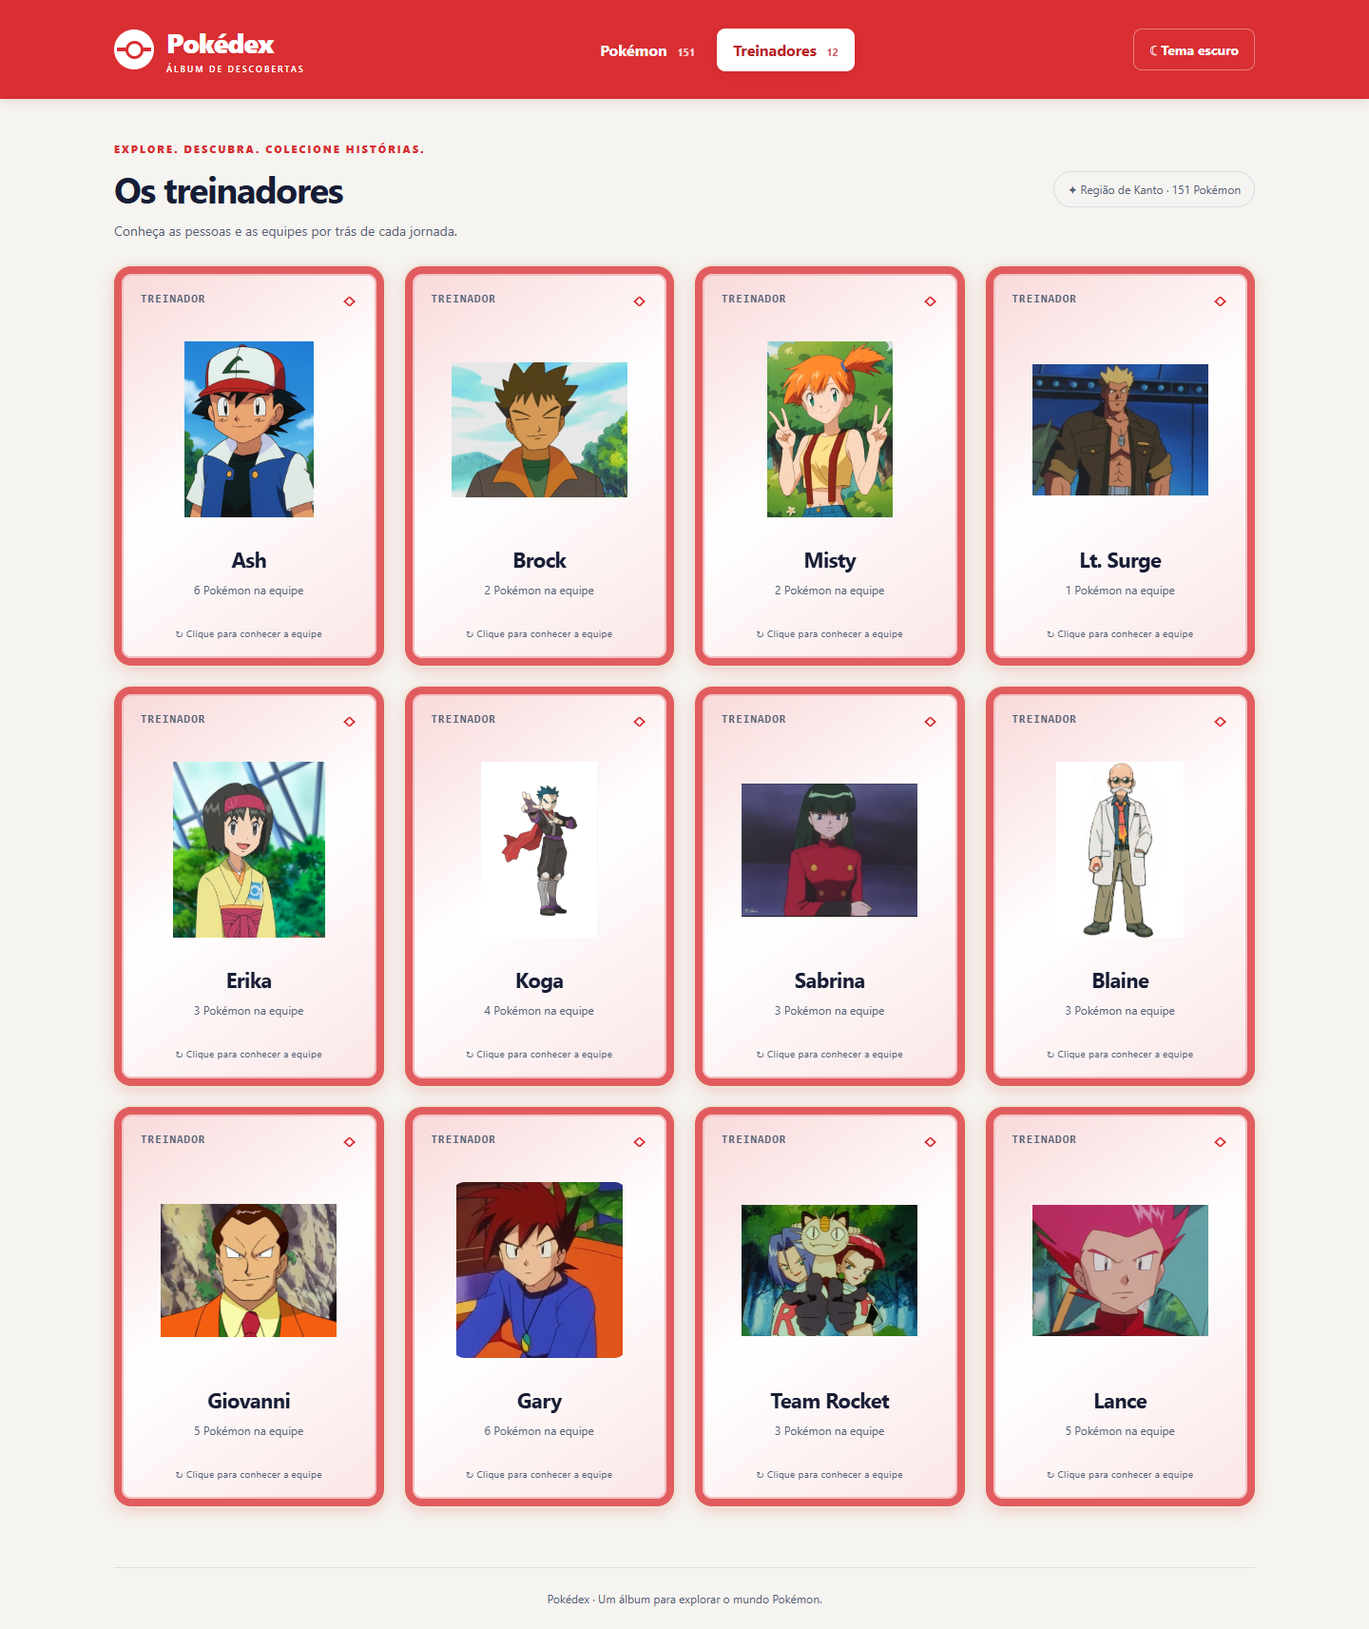
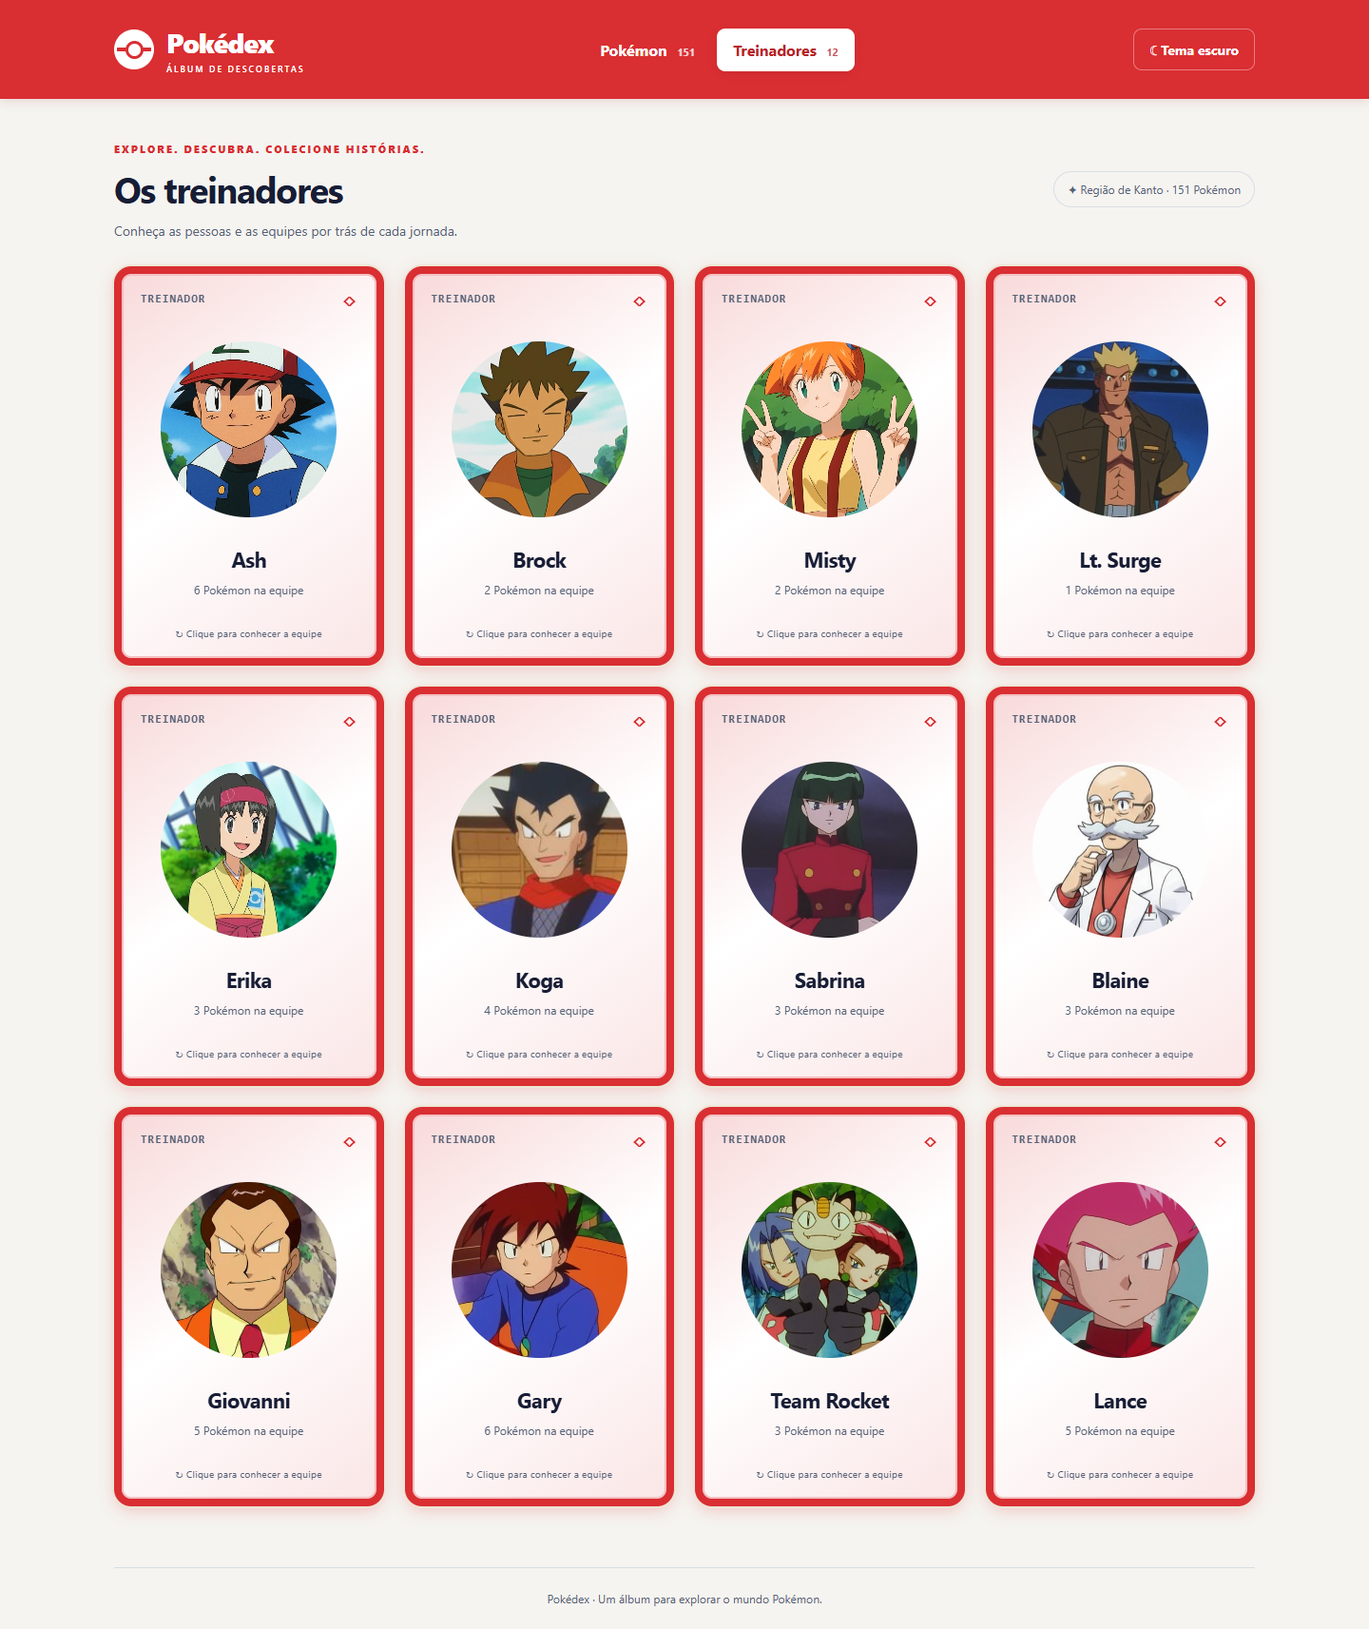
docs(readme): consolida atualizações e remove seção de autoria da dupla

Changed region(s): [[0.0625, 0.1547, 0.9375, 0.9282]]

diff --git a/README.md b/README.md
@@ -1,109 +1,160 @@
 # Pokédex — Álbum de descobertas
 
-Atividade 03 de Desenvolvimento e Integração de Aplicações Web. Aplicação acadêmica em React + Vite, com JavaScript/JSX, 151 Pokémon e 12 treinadores do JSON fornecido. Sem backend ou banco de dados.
+Projeto desenvolvido individualmente para a Atividade 03 de Desenvolvimento e Integração de Aplicações Web. Aplicação em React + Vite, com JavaScript/JSX, para explorar os **151 Pokémon e 12 treinadores** do JSON fornecido pela disciplina. Sem backend ou banco de dados.
 
-![Pokédex em desktop com ilustrações oficiais](docs/preview-desktop.png)
+![Pokédex com símbolos dos elementos e molduras nas cores correspondentes](docs/preview-desktop.png)
 
 ## Executar
 
-Recomendado: Node.js 24 e npm. Na pasta do projeto:
+Ambiente utilizado no desenvolvimento: **Node.js 24 e npm**.
 
 ```bash
 npm install
 npm run dev
 ```
 
-Abra **http://127.0.0.1:5173**. Se essa porta estiver ocupada, use o endereço informado pelo Vite no terminal. Para encerrar, pressione Ctrl+C.
+Abra **http://127.0.0.1:5173**. Se a porta estiver ocupada, use o endereço informado pelo Vite no terminal. Para encerrar, pressione Ctrl+C.
+
+Para gerar e conferir a versão de produção:
 
 ```bash
 npm run build
 npm run preview
 ```
 
-O build fica em `dist/`. O preview normalmente usa **http://127.0.0.1:4173**. Os comandos precisam permitir os subprocessos do Vite/esbuild no ambiente de execução.
+O build fica em `dist/`. O preview normalmente usa **http://127.0.0.1:4173**. O ambiente precisa permitir os subprocessos do Vite/esbuild.
 
-## Usar o álbum
+## Explorar os Pokémon
 
-- Busque pelo nome parcial ou por ID exato: `25`, `025` e `#025` encontram Pikachu. Espaços externos e maiúsculas são ignorados.
-- Combine busca com tipo, inclusive tipos secundários, e ordene por número, nome ou qualquer um dos seis atributos, nos dois sentidos. Empates usam ID crescente. “Limpar filtros” preserva a ordenação.
-- Clique, Enter ou Espaço vira/desvira cada carta independentemente. Hover apenas destaca. Os versos mostram os seis valores originais e barras na mesma escala global, mesmo com filtros ativos.
-- As duas faces usam uma moldura colorida com contorno claro e brilho. A cor e o símbolo decorativo dos Pokémon acompanham o tipo principal; treinadores usam vermelho. A área da ilustração também recebe um fundo suave na cor do tipo.
-- O conteúdo das cartas é centralizado, com uma faixa “Ver atributos” na cor do tipo principal. A paleta representa os elementos do JSON, não a aparência dos Pokémon: As cores são extraídas do fundo dos ícones fornecidos: Normal é cinza, Fogo é vermelho, Água é azul e assim por diante. A borda usa a cor exata; fundos e brilho usam variações dessa mesma cor. Em Pokémon com dois tipos, o primeiro define a moldura e a faixa; os dois continuam nas etiquetas.
-- A última carta Pokémon virada abre o painel de treinadores. Virar outra troca o contexto sem desvirar a anterior. Desvirar a carta vinculada fecha o painel; desvirar outra não interfere.
-- X/Escape fecha apenas o painel. Escape e o fechamento por teclado devolvem foco à carta vinculada. O painel não é modal, não captura foco e não tem temporizador.
-- Filtrar a carta vinculada para fora da lista ou trocar de aba fecha o painel. As viradas são preservadas; nenhum perfil anterior reabre automaticamente. Para reabrir o perfil de uma carta já virada, desvire e vire novamente.
-- A aba Treinadores permite virar várias cartas, sem abrir painel. Equipes mantêm ordem e repetições, incluindo as de Koga e Lance. Insígnias são quantidades do JSON, não coleções inventadas.
-- Mew tem tipos vazios nos dados originais e mostra “Tipo não informado”. A opção “Sem tipo” representa o tipo explícito `Typeless`, que é diferente de uma lista vazia.
-- O primeiro acesso usa tema claro. A escolha persiste em `localStorage`; se o armazenamento estiver bloqueado, a alternância funciona na sessão.
-- O layout se adapta ao celular, tablet e desktop; respeita redução de movimento, oferece foco visível e mantém a face oculta fora da acessibilidade. O painel fica limitado a 40vh no celular e há espaço de rolagem para acessar as cartas atrás dele.
+- Pesquisa imediata por nome parcial, ignorando maiúsculas e espaços externos, ou ID exato: `25`, `025` e `#025` encontram Pikachu.
+- Filtro por um tipo, incluindo tipos secundários, combinado com a pesquisa e a ordenação.
+- Ordenação por ID, nome, HP, Ataque, Defesa, Ataque Especial, Defesa Especial e Velocidade, em ordem crescente ou decrescente. Empates usam ID crescente, sem alterar o JSON.
+- Contagem de resultados, mensagem para buscas sem correspondência e ação **Limpar filtros**, que mantém a ordenação selecionada.
+- Cartas com ID, ilustração, nome e todos os tipos na frente. O verso mostra os seis atributos originais, com valores e barras na mesma escala global, calculada a partir de todos os Pokémon.
+- Clique, Enter ou Espaço vira/desvira cada carta. Várias cartas podem permanecer viradas; pesquisa, filtros, ordenação e troca de aba preservam as viradas. Hover apenas destaca a carta.
 
-## Dados e imagens
+Mew tem uma lista de tipos vazia no arquivo original e mostra **Tipo não informado**. Isso é diferente da opção **Sem tipo**, que corresponde ao tipo explícito `Typeless`.
 
-`src/data/pokedex-data.json` é uma cópia textual integral do `pokedex-data.json` original da raiz. A aplicação importa somente a cópia em `src/data`. Não corrige nomes, atributos, tipos, equipes ou insígnias com valores de APIs ou imagens de referência.
+## Visual e acessibilidade
 
-Fonte dos dados: [material da disciplina](https://github.com/joaopauloaramuni/desenvolvimento-e-integracao-de-aplicacoes-web/blob/main/ATIVIDADES/ATIVIDADE%2003%20-%20JSON/data/pokedex-data.json). O enunciado e os materiais recebidos estão preservados na raiz.
+O álbum usa conteúdo centralizado, molduras espessas com contorno claro e brilho, além da faixa **Ver atributos** na frente e **Ocultar atributos** no verso. As cores das bordas são extraídas do fundo dos símbolos fornecidos: Fogo é vermelho, Água é azul, Planta é verde e Normal é cinza. Fundos, brilho, barras e faixas usam a mesma cor ou variações dela.
 
-Ilustrações: [repositório de sprites da PokéAPI](https://github.com/PokeAPI/sprites), usando `https://raw.githubusercontent.com/PokeAPI/sprites/master/sprites/pokemon/other/official-artwork/{id}.png`. As 151 URLs foram verificadas com HTTP HEAD em 26/10/2026 e retornaram HTTP 200 com conteúdo de imagem. A disponibilidade futura depende do serviço externo.
+Em Pokémon com dois tipos, o **primeiro tipo do JSON** define a moldura e o símbolo do canto; os dois continuam visíveis nas etiquetas. As cores representam os elementos, independentemente da aparência do Pokémon. Cartas de treinadores usam a moldura vermelha e retratos circulares, com a imagem preenchendo o círculo.
 
-Não há consulta aos metadados da API: as URLs são derivadas do ID e o cache de imagens é o cache HTTP do navegador, conforme os cabeçalhos do servidor. Imagens têm carregamento tardio e fallback local com prevenção de loops; a consulta dos dados funciona mesmo sem conexão após carregar o aplicativo.
+O primeiro acesso começa no tema claro. A alternância para o escuro é salva em `localStorage`; se o armazenamento estiver bloqueado, continua funcionando na sessão.
 
-Os 12 retratos de treinadores fornecidos pelo usuário estão em `src/assets/images/Treinadores/`, associados explicitamente aos IDs do JSON em `src/data/trainerImages.js` e usados nas cartas e no painel. A imagem de Team Rocket representa o grupo. A fonte original e a licença dessas imagens não foram informadas; esses campos ficam pendentes de preenchimento pela dupla.
+O layout se adapta ao celular, tablet e desktop, com labels, foco visível, navegação por teclado, descrições dos detalhes e respeito à preferência por redução de movimento. A face oculta fica fora da acessibilidade. A interface foi conferida em **320, 375, 768 e 1440 px**.
 
-![Cartas dos 12 treinadores com os retratos fornecidos](docs/trainers-desktop.png)
+## Treinadores e painel contextual
 
-O avatar genérico continua como fallback em caso de falha. Ele e o fallback Pokémon são SVGs locais criados para este projeto. Para substituir um retrato, adicione um arquivo com o ID do treinador em `src/assets/images/trainers/`, por exemplo `1.png` para Ash. Formatos aceitos: png, jpg, jpeg, webp e svg. Esses arquivos por ID têm prioridade sobre os retratos por nome. O Vite incorpora as imagens no build.
+A aba Treinadores apresenta Ash, Brock, Misty, Lt. Surge, Erika, Koga, Sabrina, Blaine, Giovanni, Gary, Team Rocket e Lance. As cartas mostram o retrato e o nome na frente; no verso, a quantidade de insígnias e a equipe. Vários treinadores podem ficar virados sem abrir o painel contextual.
 
-ID de Pokémon inexistente em uma equipe recebe nome identificável e fallback, preservando sua posição. Repetições têm chaves compostas por treinador, posição e ID; não duplicam o perfil inteiro no painel.
+![Cartas dos 12 treinadores com retratos circulares](docs/trainers-desktop.png)
+
+As equipes mantêm a ordem e as repetições de `pokemonIds`, incluindo as de Koga e Lance. As chaves React incluem treinador, posição e ID. Um Pokémon inexistente recebe identificação e fallback, sem perder sua posição. Repetições na equipe não duplicam o perfil inteiro do treinador no painel.
+
+**Insígnias:** o JSON informa somente a quantidade (`badges`), sem identificar quais foram conquistadas. A interface exibe esse número com um símbolo genérico, sem inventar nomes ou uma coleção de insígnias específicas.
+
+Ao virar uma carta Pokémon, um único painel mostra todos os treinadores associados e suas equipes. O comportamento é:
+
+| Ação | Resultado |
+| --- | --- |
+| Virar um Pokémon | Abre seu painel de treinadores. |
+| Virar outro Pokémon | Troca o contexto, mantendo a carta anterior virada. |
+| Desvirar a carta vinculada | Fecha o painel. |
+| Desvirar outra carta | Mantém o painel atual. |
+| Fechar com X ou Escape | Fecha somente o painel, sem desvirar cartas. |
+| Ocultar a carta vinculada por filtro ou trocar de aba | Fecha o painel e preserva as viradas. |
+
+Nenhum perfil anterior reabre automaticamente. Para reabrir o painel de uma carta já virada, desvire e vire novamente. Se não houver associação, aparece **Nenhum treinador associado**.
+
+O painel não é modal, não escurece o fundo, não captura foco e não tem temporizador. O fechamento por teclado devolve foco à carta vinculada. No celular, fica na parte inferior, limitado a aproximadamente 40vh, com rolagem e espaço para alcançar as cartas por trás dele.
+
+## Dados, imagens e fontes
+
+### Dados originais
+
+`src/data/pokedex-data.json` é uma cópia textual integral do `pokedex-data.json` da raiz. A aplicação importa a cópia em `src/data` e preserva nomes, atributos, tipos, equipes e quantidades de insígnias.
+
+Fonte: [JSON disponibilizado pela disciplina](https://github.com/joaopauloaramuni/desenvolvimento-e-integracao-de-aplicacoes-web/blob/main/ATIVIDADES/ATIVIDADE%2003%20-%20JSON/data/pokedex-data.json). O enunciado e os materiais de orientação recebidos permanecem na raiz do repositório.
+
+### Ilustrações Pokémon
+
+As ilustrações vêm do [repositório de sprites da PokéAPI](https://github.com/PokeAPI/sprites), pela URL:
+
+```text
+https://raw.githubusercontent.com/PokeAPI/sprites/master/sprites/pokemon/other/official-artwork/{id}.png
+```
+
+Não há consulta aos metadados da API nem substituição dos dados acadêmicos. As URLs são derivadas do ID, e o cache é o cache HTTP do navegador, conforme os cabeçalhos do servidor. As imagens têm carregamento tardio, decodificação assíncrona e fallback local com prevenção de loops. Falhas nas imagens não impedem pesquisas, filtros ou a visualização dos dados.
+
+As 151 URLs foram verificadas por HTTP HEAD em **26/10/2026**, com resposta 200 e conteúdo de imagem. A disponibilidade externa pode mudar.
+
+### Retratos dos treinadores
+
+Os 12 retratos locais estão em `src/assets/images/Treinadores/`, associados explicitamente aos IDs em `src/data/trainerImages.js`. Eles aparecem nas cartas e no painel; Team Rocket usa uma imagem do grupo. Os retratos de **Blaine e Koga** foram substituídos pelas imagens atualizadas durante o desenvolvimento.
+
+Para substituir um retrato por ID, adicione um arquivo em `src/assets/images/trainers/`, como `1.png` para Ash. São aceitos png, jpg, jpeg, webp e svg. Esses arquivos têm prioridade sobre os retratos por nome. O Vite incorpora as imagens no build.
+
+O avatar genérico continua disponível caso uma imagem falhe. Ele e o fallback Pokémon são SVGs locais criados para o projeto. A fonte externa e a licença dos retratos fornecidos não foram informadas.
+
+### Símbolos dos elementos
+
+Os **18 símbolos** foram recortados do arquivo `src/assets/images/Simbolos Elementos Pokemon (1).png`. Os PNGs individuais de **70 × 70 pixels** ficam em `src/assets/images/types/`, preservando as cores e a transparência originais. Eles substituem os emojis nas duas faces dos cards.
+
+`src/data/typeIcons.js` associa os arquivos ao tipo principal. `Typeless` e listas de tipos vazias mantêm um símbolo neutro, pois não aparecem na imagem fornecida. A origem externa e a licença da imagem não foram informadas.
+
+Para reproduzir os recortes no Windows:
+
+```powershell
+powershell -File scripts/crop-type-icons.ps1
+```
+
+O script usa `System.Drawing`, valida as dimensões da imagem de origem e gera os recortes sem alterar o arquivo original.
 
 ## Estrutura e dependências
 
 ```text
 src/
-  assets/images/Treinadores/ Retratos fornecidos por nome (12 treinadores)
-  assets/images/trainers/  Retratos locais opcionais por ID
-  components/              Cabeçalho, controles, cartas, equipes e painel
-  css/                     Tokens e estilos de layout, cartas e treinadores
-  data/                    JSON original e mapeamento de retratos
-  hooks/                   Tema com persistência
-  utils/                   Seletores, relações, escala e transições de cartas
-  App.jsx                  Estados e integração dos componentes
-  main.jsx                 Entrada React
-public/images/             Fallbacks SVG locais
-tests/                     Testes de dados e comportamento dos seletores
-e2e/                       Testes no navegador
+  assets/images/
+    Treinadores/             Retratos locais por nome
+    trainers/                Retratos opcionais por ID
+    types/                   Os 18 símbolos recortados
+  components/                Cabeçalho, controles, cartas, equipes e painel
+  css/                       Tokens e estilos da aplicação
+  data/                      JSON e mapeamentos de retratos e símbolos
+  hooks/                     Tema com persistência
+  utils/                     Seletores, relações, escala e transições
+  App.jsx                    Estados e integração dos componentes
+  main.jsx                   Entrada React
+public/images/               Fallbacks SVG locais
+scripts/                     Recorte reproduzível dos símbolos
+tests/                      Testes de dados e seletores
+e2e/                        Testes no navegador
+docs/                       Capturas da aplicação
 ```
 
-React e React DOM são as dependências de execução. Vite e o plugin React fazem o desenvolvimento/build; ESLint, o plugin de hooks e globals verificam o código; Prettier formata os arquivos; Playwright testa o navegador. Todas as versões estão no `package.json` e fixadas pelo `package-lock.json`. Estilos e animações usam CSS, sem biblioteca visual adicional.
+As dependências de execução são **React e React DOM**. O desenvolvimento usa **Vite e o plugin React**, **ESLint, plugin de hooks e globals**, **Prettier** e **Playwright**. As dependências estão no `package.json`, com versões de instalação registradas no `package-lock.json`. Layout, animações e barras usam CSS, sem biblioteca visual adicional.
 
-## Verificações
+## Verificações e manutenção
 
 ```bash
 npm run lint
 npm test
 npm run test:e2e
 npm run build
+```
+
+Para formatar o código:
+
+```bash
 npm run format
 ```
 
-Os testes de navegador usam **Microsoft Edge instalado** e iniciam/encerram seu próprio Vite na porta 5173, que precisa estar livre. Se necessário, instale o navegador com `npx playwright install msedge`. Para outro navegador, ajuste `channel` em `playwright.config.js` e instale o navegador correspondente.
+Os testes de navegador usam **Microsoft Edge instalado** e iniciam/encerram seu próprio Vite na porta 5173, que precisa estar livre. Se necessário, execute `npx playwright install msedge`. Para usar outro navegador, ajuste `channel` em `playwright.config.js` e instale o navegador correspondente.
 
-Os seis testes de unidade cobrem preservação do JSON, busca, combinação com tipo secundário, ordenação de todos os campos nos dois sentidos, empates, duplicatas, IDs inexistentes, tipos vazios, escala global e transições das cartas. Os dez testes de navegador cobrem controles, teclado, painel, equipes, tema persistido e armazenamento bloqueado, fallback de imagem, ausência de associação, movimento reduzido e layout em 320/375/768/1440 px nos dois temas. As imagens externas são simuladas nessa suíte para garantir testes reproduzíveis, incluindo respostas 404. A verificação das 151 URLs foi feita separadamente.
+A suíte contém **6 testes de unidade** e **10 testes de navegador**. Ela cobre preservação dos dados, busca e filtros combinados, ordenação, duplicatas, IDs inexistentes, tipos vazios, escala global, cartas independentes, transições do painel, teclado, tema persistido, armazenamento bloqueado, fallback de imagem e layouts nos dois temas. As imagens externas são simuladas na suíte, inclusive com respostas 404, para tornar os testes reproduzíveis.
 
-Capturas geradas e rastros de falhas ficam em `test-results/`, ignorado pelo Git. As verificações não substituem avaliação manual com leitores de tela reais.
+Além da suíte, foram feitas conferências no navegador dos 12 retratos, dos 18 símbolos, da correspondência entre as cores das bordas e dos ícones e do espaço dos seis atributos acima do rodapé. Os testes de imagem foram ajustados para distinguir as ilustrações dos novos símbolos dos elementos.
 
-## Autoria da dupla
-
-Preencher somente com os dados e a participação real de cada integrante:
-
-| Integrante | Nome | Participação real em pair programming |
-| --- | --- | --- |
-| 1 | A preencher | A preencher |
-| 2 | A preencher | A preencher |
-
-O desenvolvimento mantém commits locais incrementais no formato Conventional Commits. Publicação, criação de remoto e push devem ser realizados pela dupla quando solicitado; nenhum desses passos faz parte da execução automática deste projeto.
-
-## Símbolos dos elementos
-
-Os símbolos dos 18 elementos foram recortados do PNG transparente fornecido pelo usuário (src/assets/images/Simbolos Elementos Pokemon (1).png). Os recortes de 70 × 70 pixels ficam em src/assets/images/types/, preservando cores e transparência. O mapeamento src/data/typeIcons.js associa os nomes dos arquivos ao tipo principal do JSON e substitui os emojis nas duas faces das cartas. Typeless e tipos vazios usam o símbolo neutro, pois não estão na imagem. A origem externa e a licença da imagem não foram informadas.
-
-Para reproduzir os recortes no Windows, execute `powershell -File scripts/crop-type-icons.ps1`. O script valida as dimensões da imagem original e não altera seu conteúdo.
+Capturas temporárias e rastros de falhas ficam em `test-results/`, ignorado pelo Git. As capturas incluídas neste README ficam em `docs/`. As verificações não substituem uma avaliação manual com leitores de tela reais.
